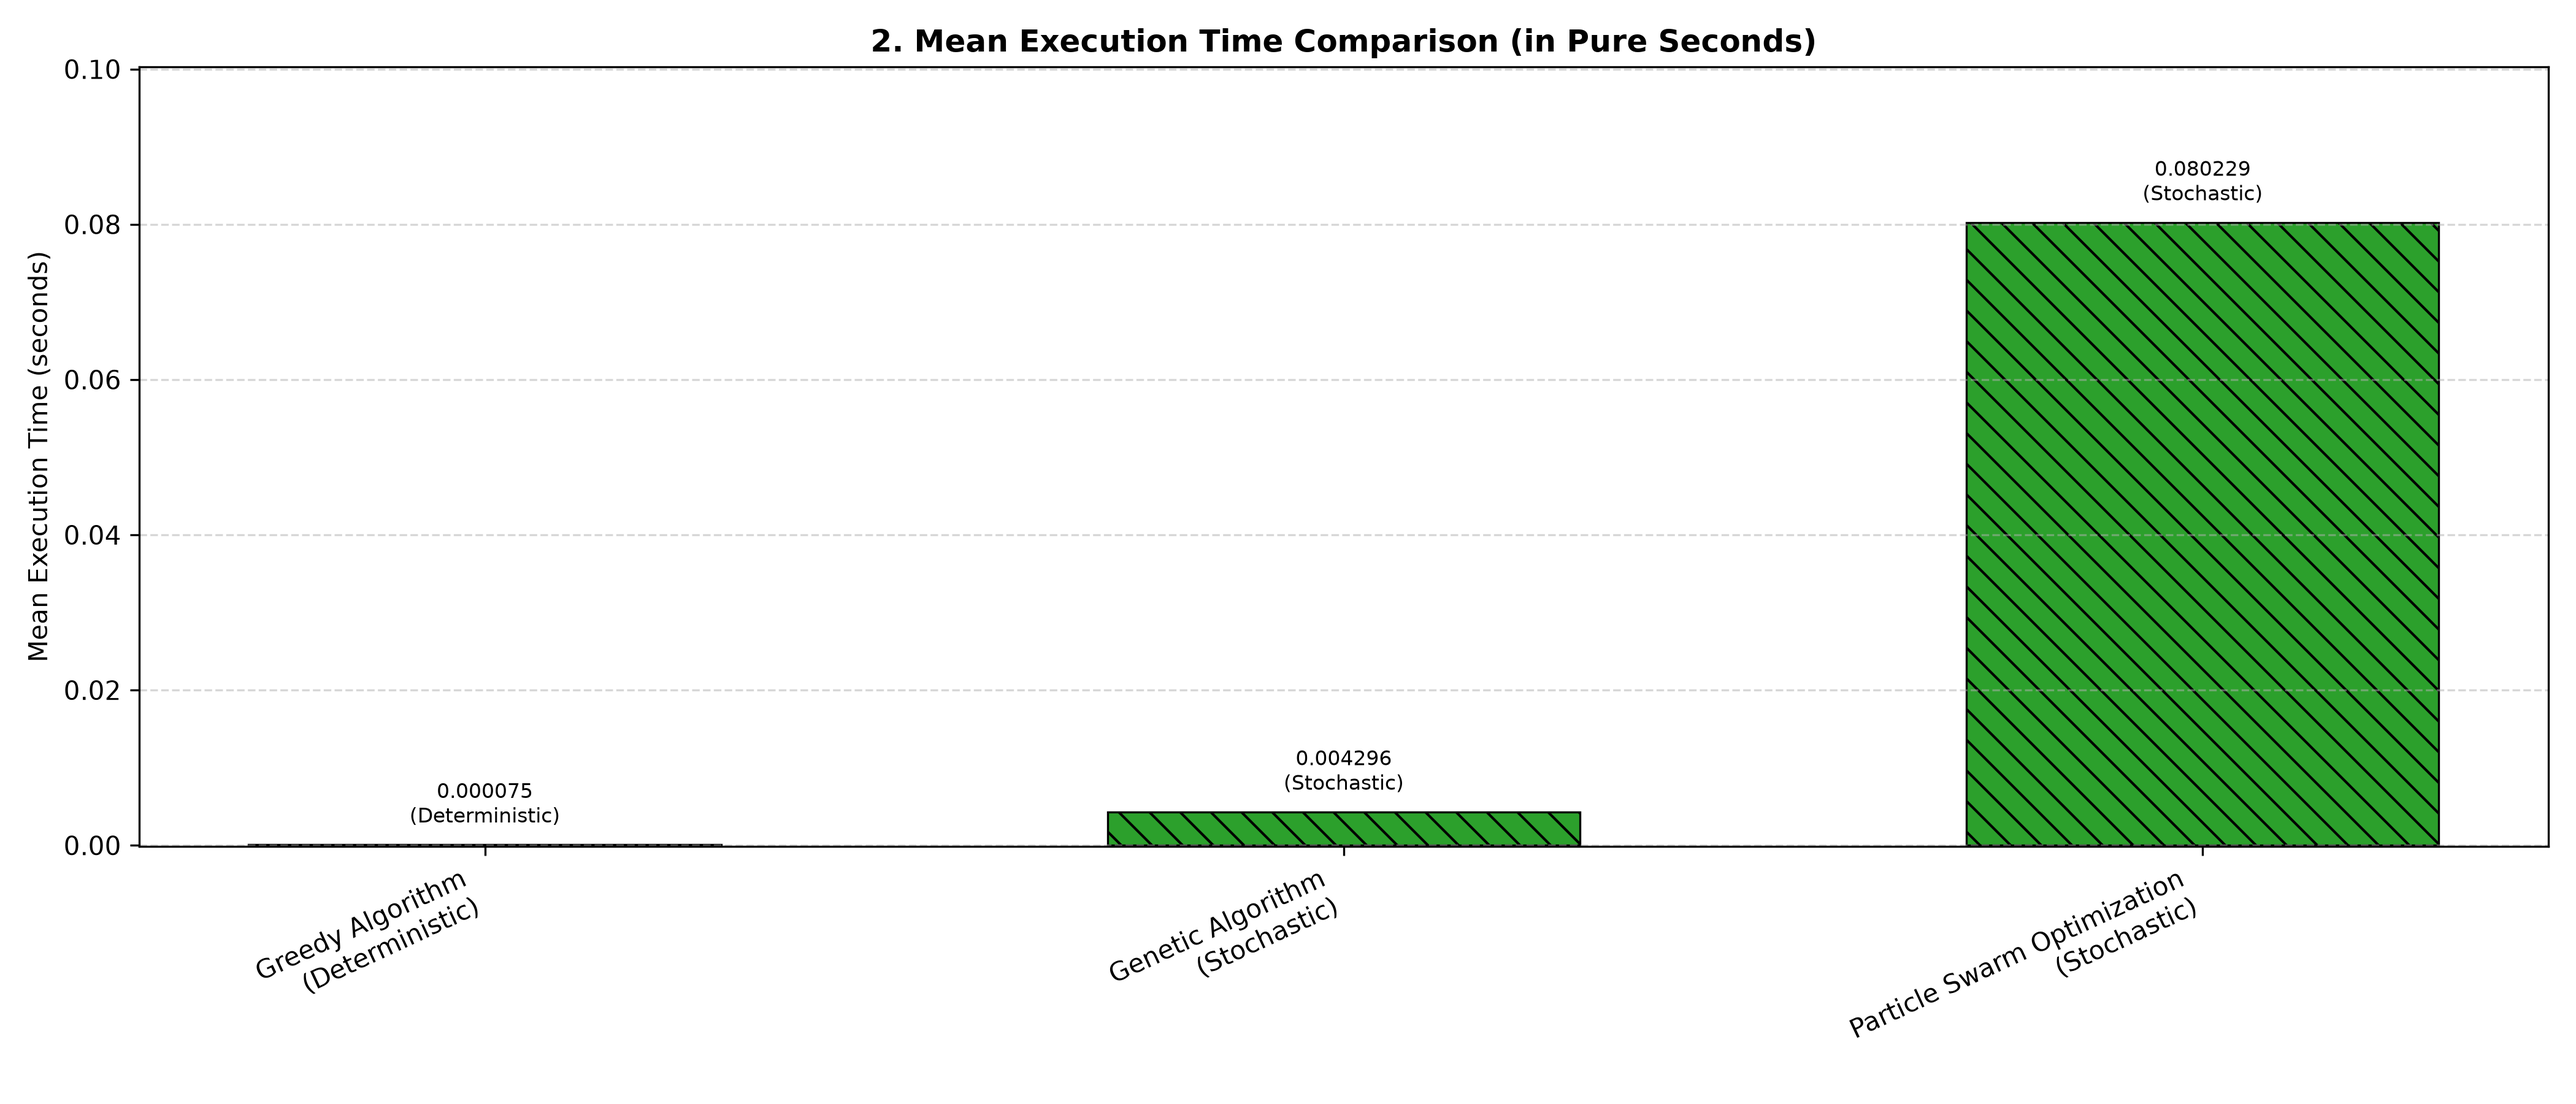
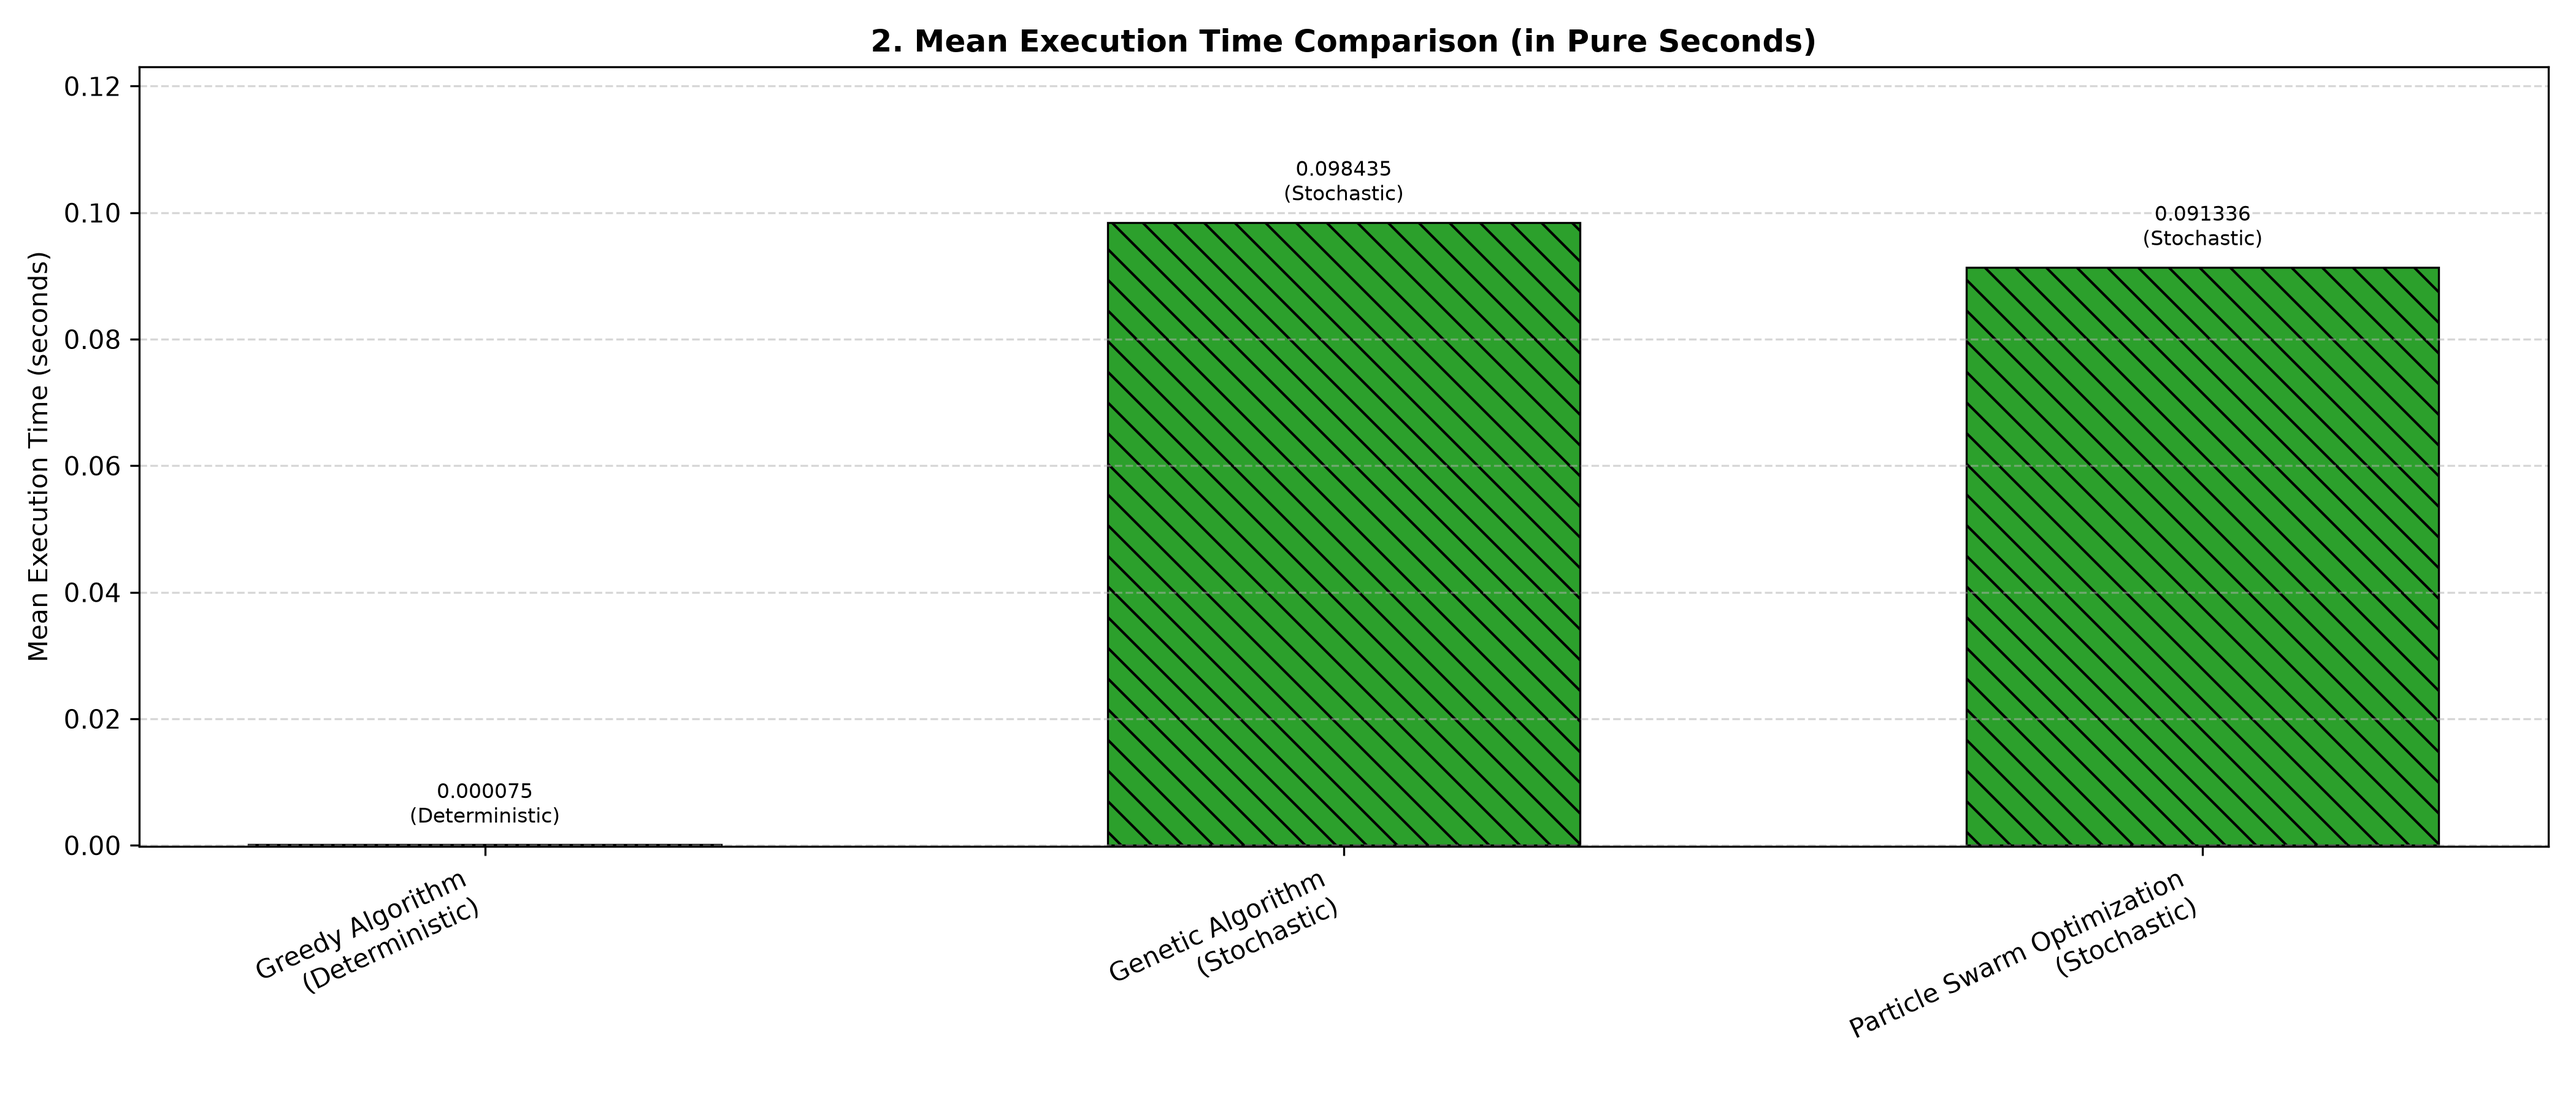
readme plan req

diff --git a/README.md b/README.md
@@ -1,21 +1,39 @@
-# tsp-tourist-optimization
+# TSP Tourist Optimization
 
-все раастояние и время было взято из гугл карт
+Tento projekt je zameraný na optimalizáciu turistických trás (problém cestujúceho – TSP) s ohľadom na reálne údaje o vzdialenostiach, čase cestovania a finančných nákladoch.
 
-distance_matrix в км
+## Zdroje údajov a parametre
+* **Zdroj údajov:** Všetky vzdialenosti a časy boli prevzaté z **Google Maps**.
+* **Matice:**
+  * `distance_matrix` – matica vzdialeností v **kilometroch**.
+  * `time_matrix` – matica času v **minútach**.
+* **Počiatočný bod:** Turisti začínajú v meste **Chattogram** (východný a koncový bod trasy).
 
-time_matrix в минутах
+## Finančné a spotrebné parametre
+* **Cena paliva:** `One_liter_benzin_BDT_coast` – cena za 1 liter benzínu v miestnej mene (BDT).
+* **Spotreba paliva:** `fuel_consumption_per_km` – spotreba paliva na 1 kilometer. Priemerná hodnota sa pohybuje v rozmedzí od 0,06 do 0,10, pričom sa používa priemer **0,08 l/km**.
 
-One_liter_benzin_BDT_coast цена в местой валюте за литр бензина 
+## Váhové koeficienty pre optimalizáciu
+Pre vyváženú optimalizáciu trasy sa používajú nasledujúce váhy kritérií:
+* **Váha pre vzdialenosť:** `0.3`
+* **Váha pre čas:** `0.4`
+* **Váha pre peniaze (náklady na palivo):** `0.3`
 
-беря среднее значения расхода топлива на 1 киллометр от 0.06 до 0.10 берем 0.08
+## Technické nastavenia
+* **Generátor náhodných čísel:** `np.random.seed(40)` na zabezpečenie reprodukovateľnosti výsledkov.
 
-fuel_consumption_per_km расход топлива на км
+## Príprava prostredia (Inštalácia)
 
-Chattogram туристы начинают отсюдого 
+1. Uistite sa, že máte nainštalovaný **Python** (odporúčaná verzia 3.11.0 alebo novšia).
+2. Stiahnite si alebo klonujte projekt do svojho lokálneho adresára.
+3. Otvorte terminál/príkazový riadok v koreňovom priečinku projektu (`tsp-tourist-optimization`) a nainštalujte potrebné závislosti:
 
-вес для дистанции 0.3
-ыес для времени 0.4
-вес для денег 0.3
+## Spustenie projektu
 
-np.random.seed(40) сид который мы используем
+Všetky súbory sa spúšťajú z koreňového adresára projektu pomocou príkazu `python` a názvu súboru:
+
+* `particle_swarm.py` – spustenie algoritmu Particle Swarm Optimization.
+* `greedy_algorithm.py` – spustenie hladového algoritmu.
+* `genetic_algorithm.py` – spustenie genetického algoritmu.
+* `data.py` – uchovávanie údajov o vzdialenostiach, čase a finančných nákladoch. *(Údaje sa pripravia automaticky, preto nie je potrebné spúšťať tento súbor samostatne).*
+* `results.py` – vizualizácia výsledkov.
